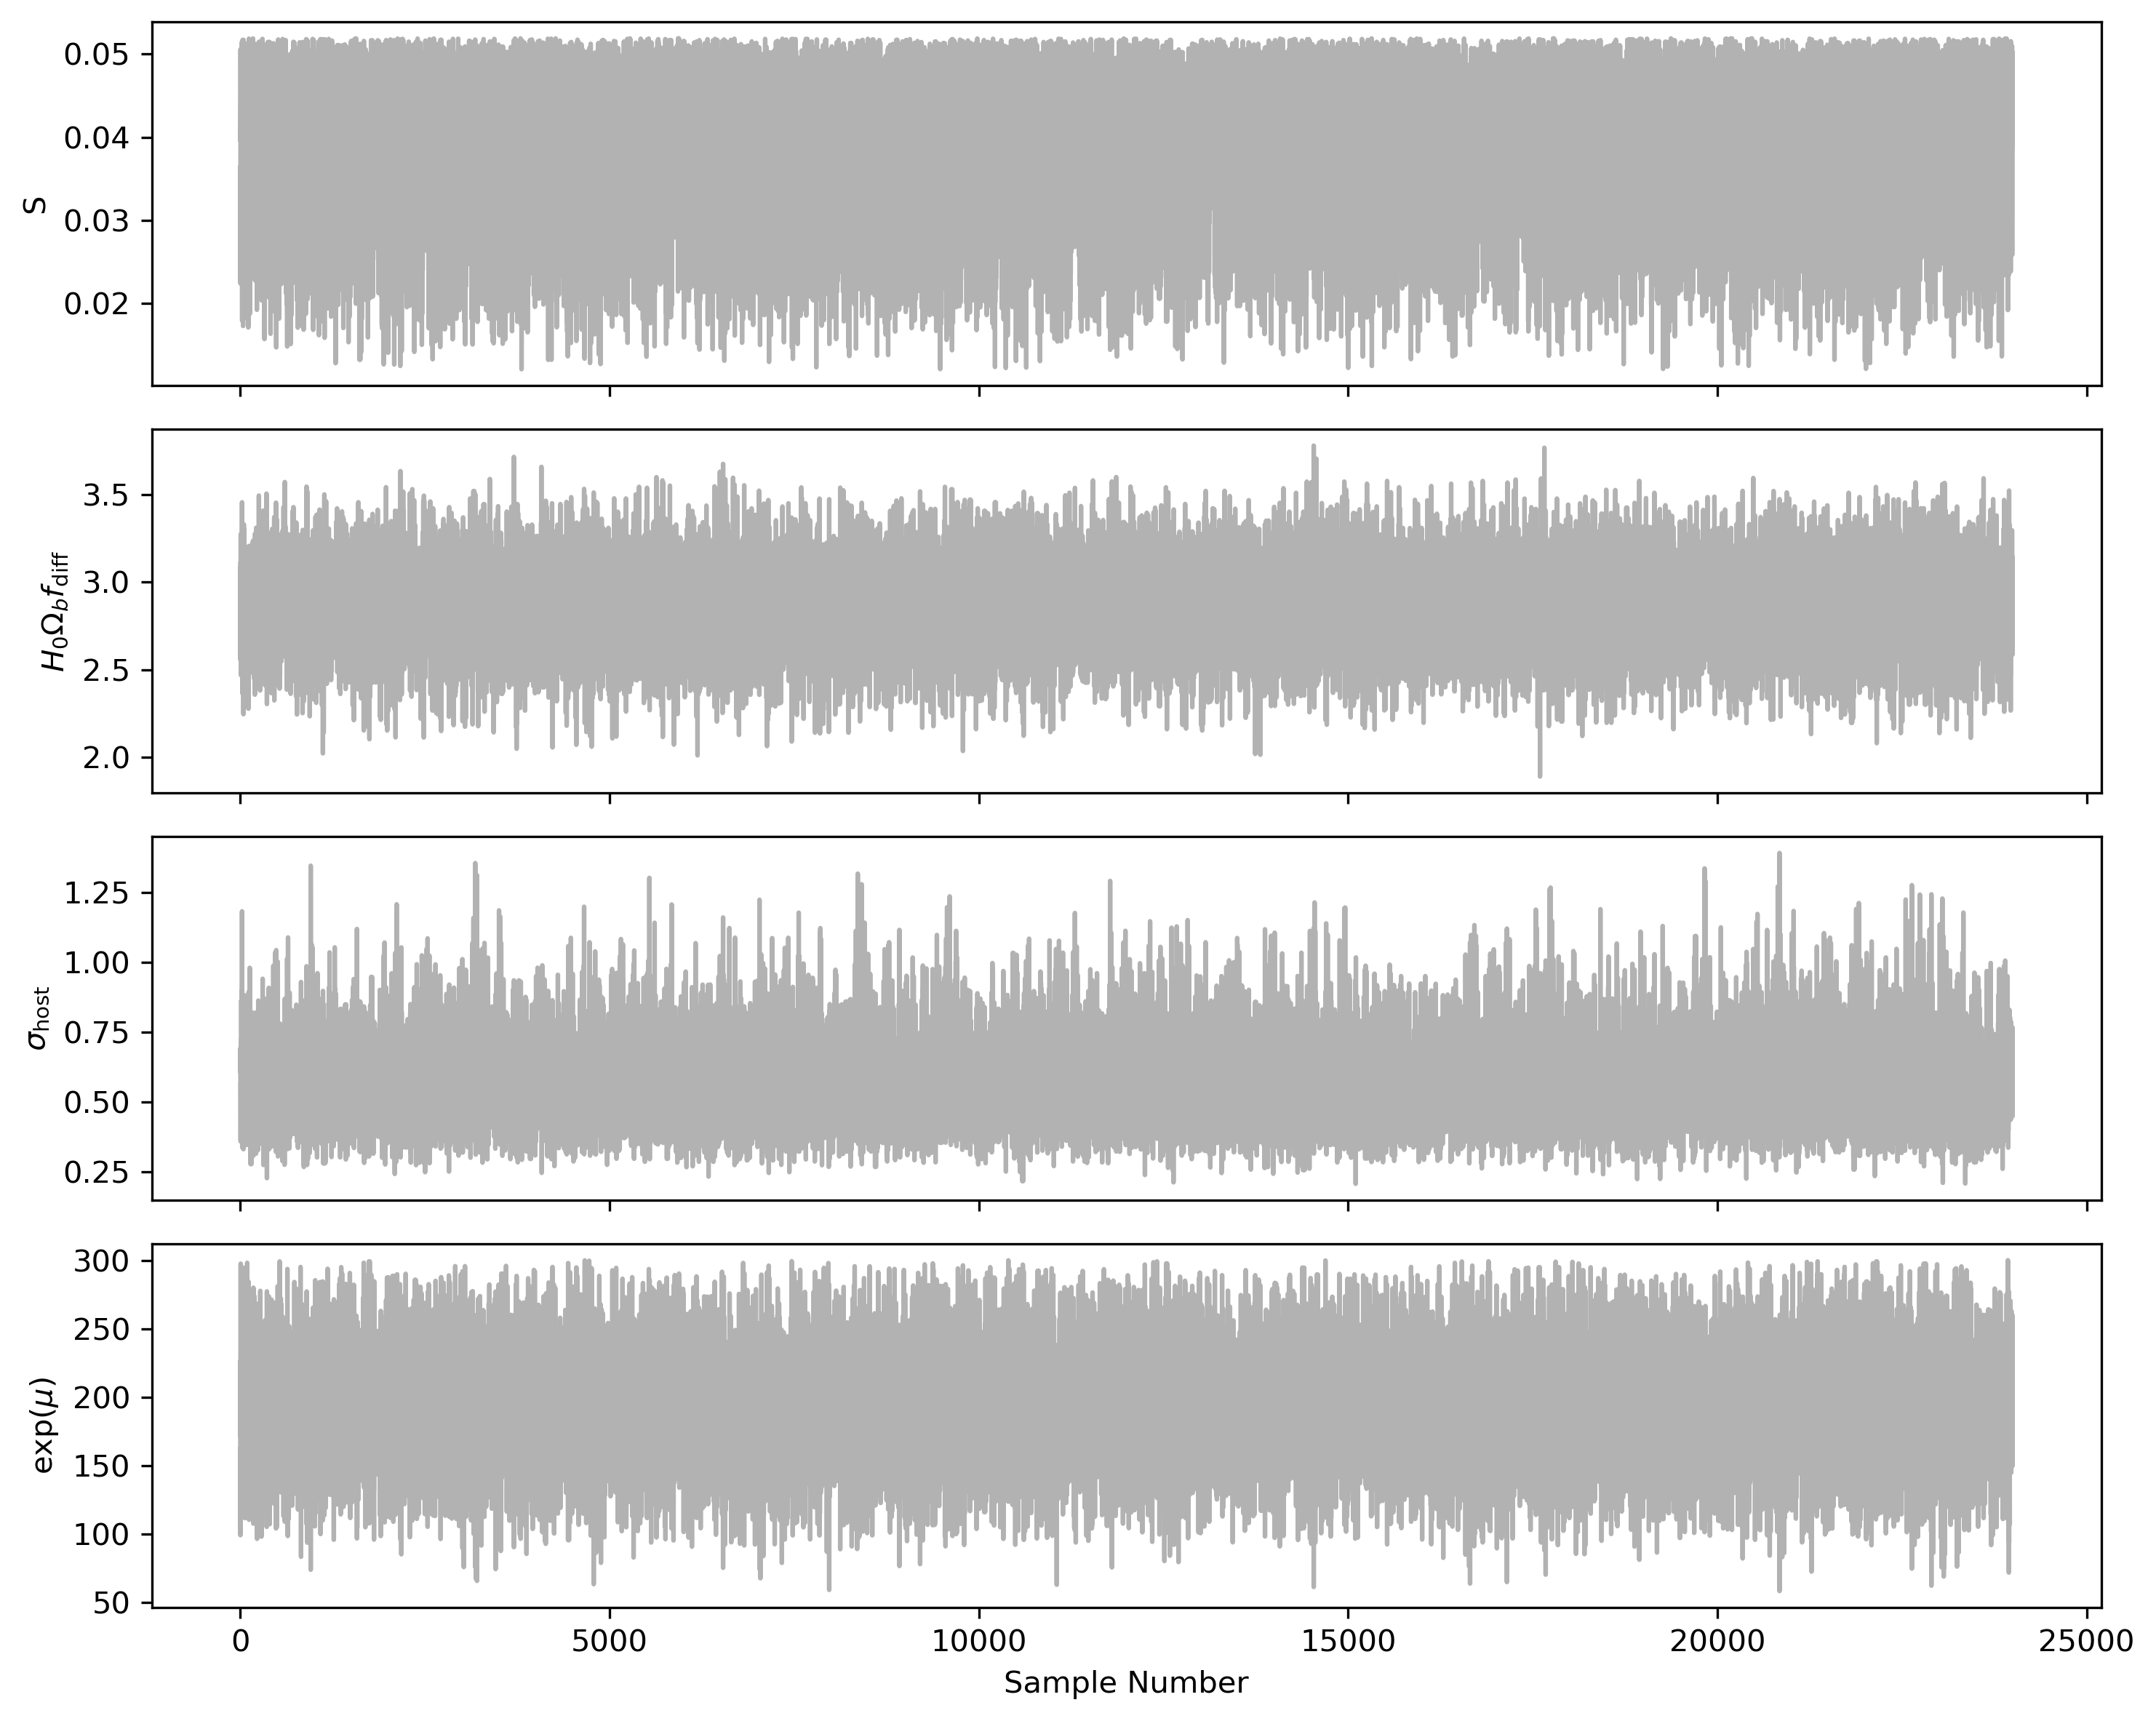
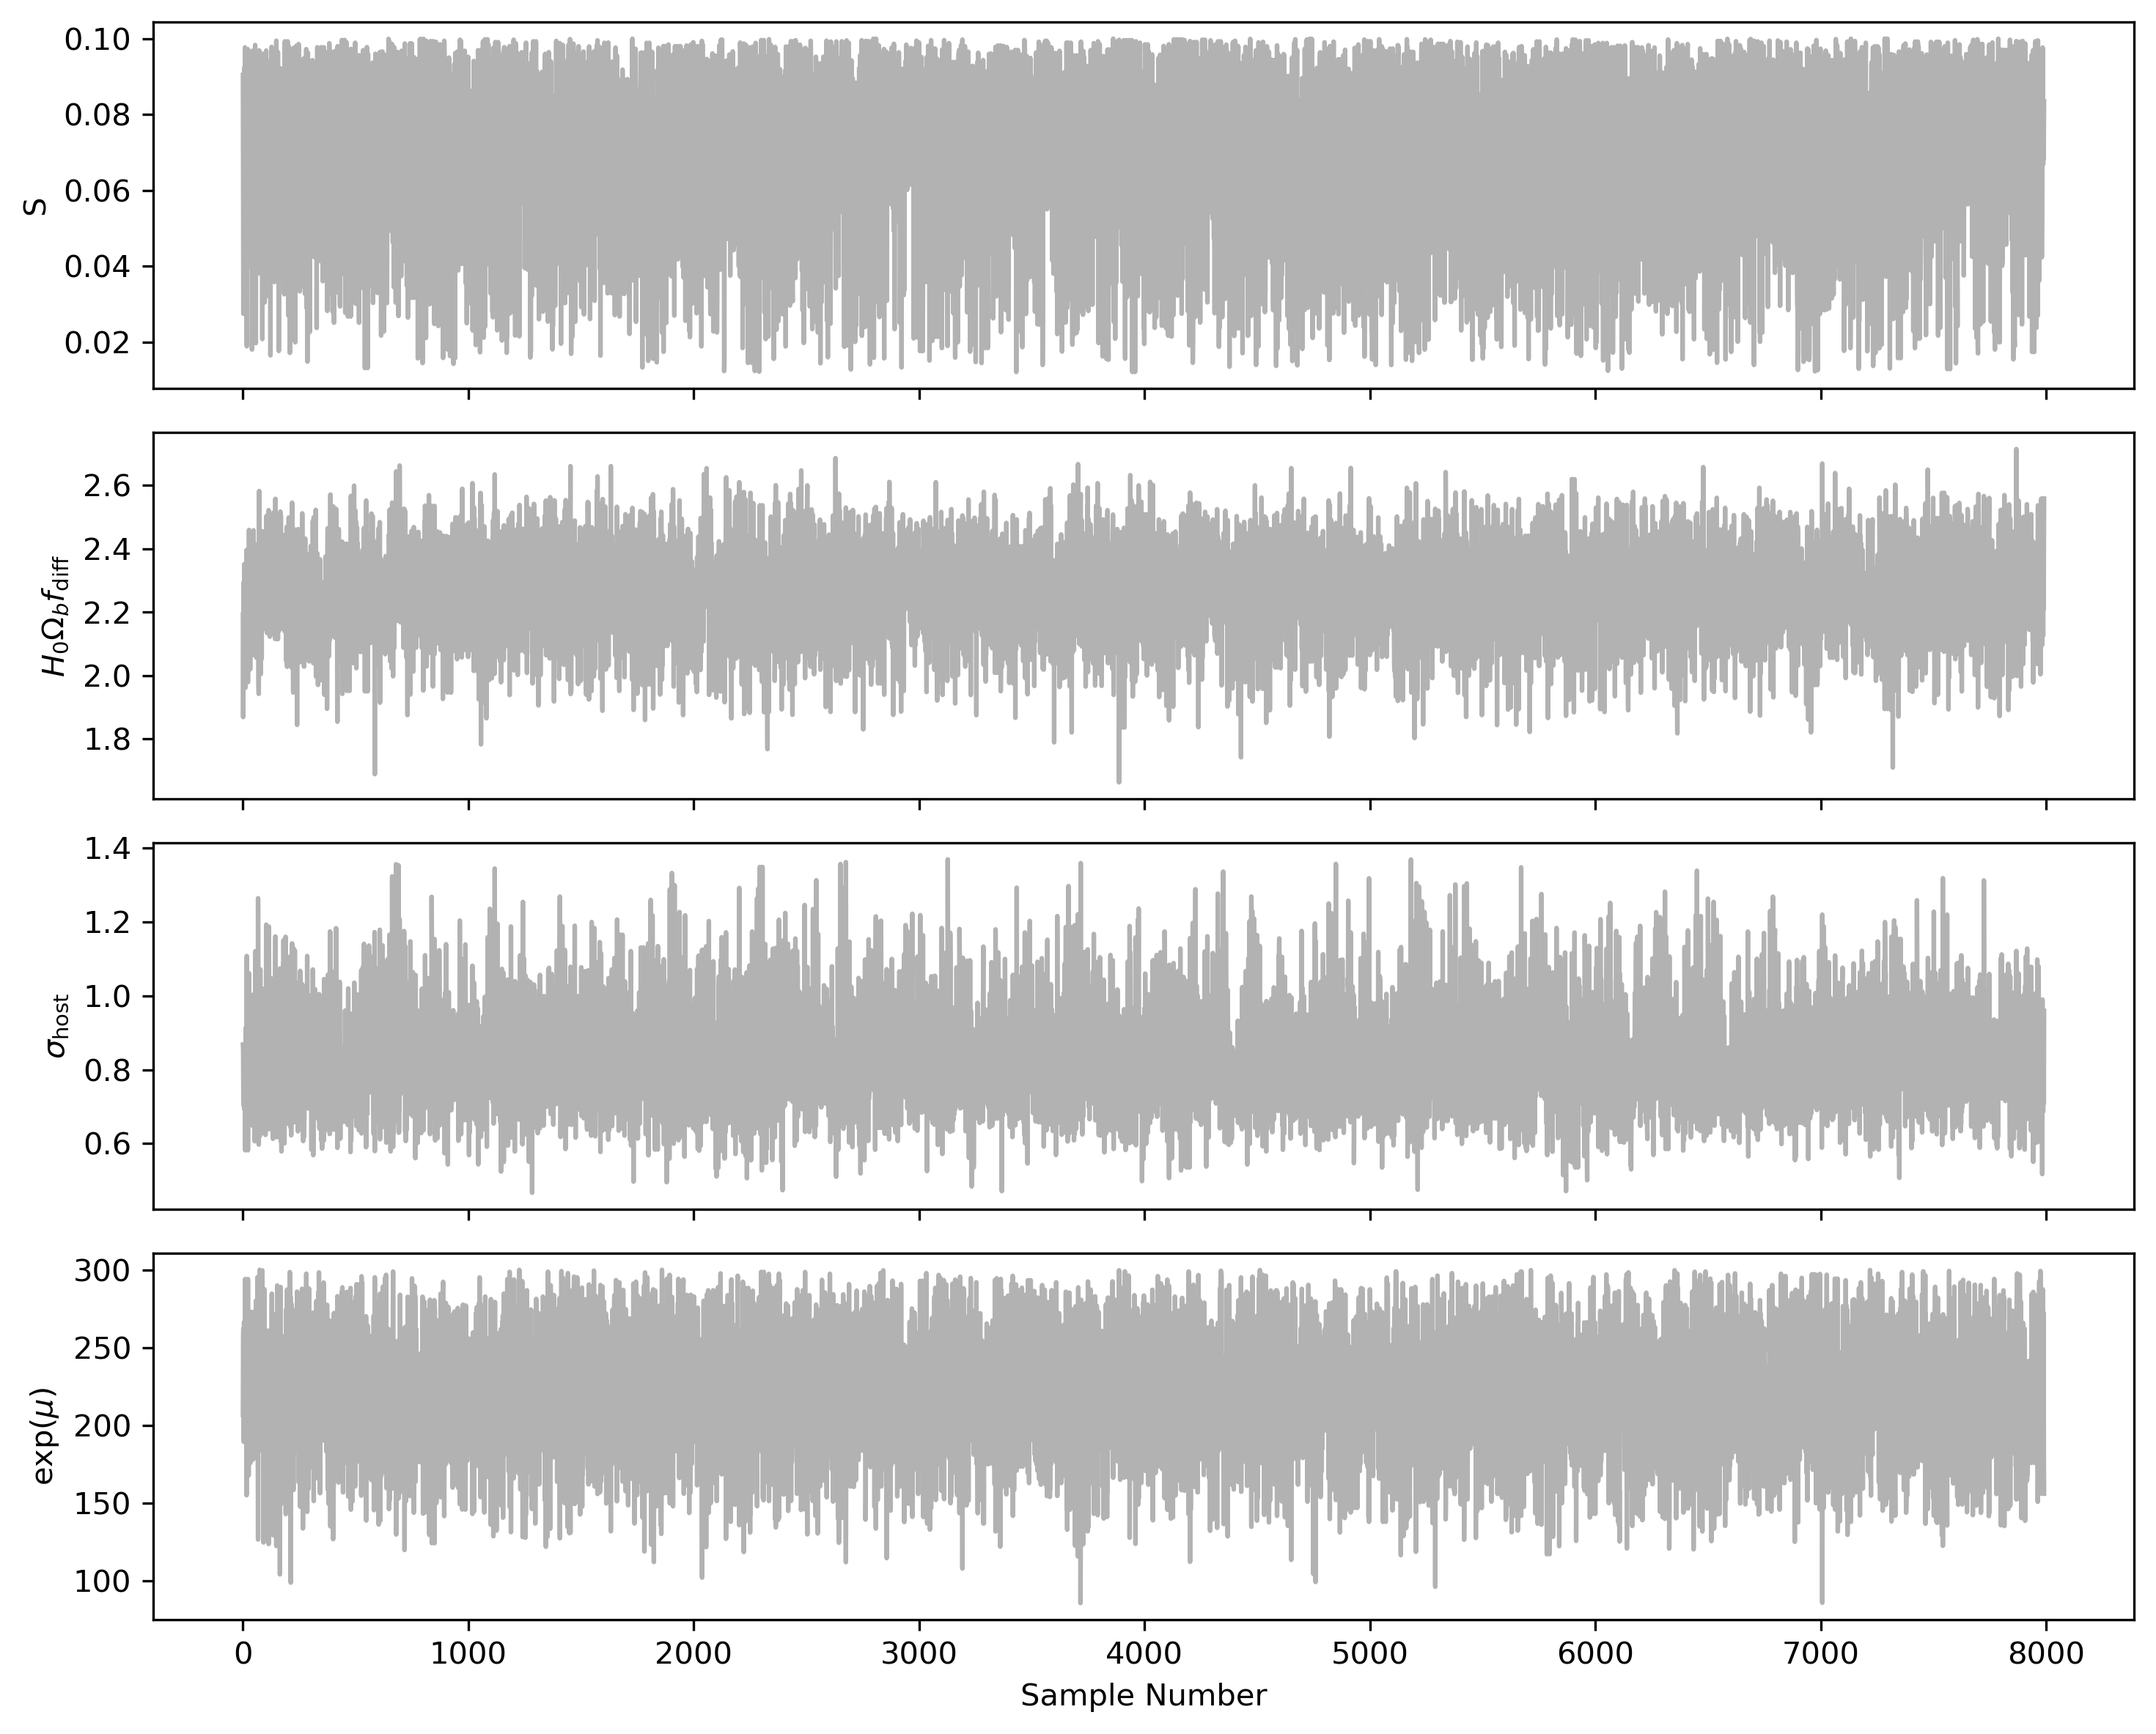
fix bugs

diff --git a/Python_scripts/mcmc_support_Macq.py b/Python_scripts/mcmc_support_Macq.py
@@ -24,20 +24,32 @@ from multiprocessing import Pool, cpu_count
 ### Load interpolations for pdf ###
 ###################################
 
-load_arrays=np.load('interpolation/A_C0_Macquart_mean.npz')
-Sigmas=load_arrays['a']
-C0s=load_arrays['c']
-As=load_arrays['b']
+DATA_PATH = 'interpolation/A_C0_Macquart_mean.npz'
 
-
-C0_sigma_inter = interpolate.interp1d(Sigmas, C0s, kind=1,bounds_error=False, 
+def _load_and_create_interpolators():
+    load_arrays = np.load(DATA_PATH)
+    Sigmas=load_arrays['a']
+    C0s=load_arrays['c']
+    As=load_arrays['b']
+    
+    C0_sigma_inter = interpolate.interp1d(Sigmas, C0s, kind=1,bounds_error=False, 
     # fill_value='extrapolate'
     )
 
 
-A_sigma_inter = interpolate.interp1d(Sigmas, As, kind=1,bounds_error=False, 
+    A_sigma_inter = interpolate.interp1d(Sigmas, As, kind=1,bounds_error=False, 
     # fill_value='extrapolate'
     )
+    
+    return Sigmas, C0s, As, C0_sigma_inter, A_sigma_inter
+
+Sigmas, C0s, As, C0_sigma_inter, A_sigma_inter = _load_and_create_interpolators()
+
+def reload_with_path(path):
+    """reload"""
+    global DATA_PATH, Sigmas, C0s, As, C0_sigma_inter, A_sigma_inter
+    DATA_PATH = path
+    Sigmas, C0s, As, C0_sigma_inter, A_sigma_inter = _load_and_create_interpolators()
 
 
 ###############################

diff --git a/Python_scripts/cosmo_support.py b/Python_scripts/cosmo_support.py
@@ -652,7 +652,7 @@ def calculate_var(C0, A, sigma_DM, alpha=3, beta=3, x_min=0, x_max=np.inf, error
 def calc_confidence_interval_width(cdf, target_prob=0.6827):
     
     # For 2σ confidence interval, we need 0.9545 mass (95.45%)
-    # target_prob = 0.6827 # 0.9545
+    # target_prob = 0.6827 # 0.9545 #0.9973
     # Find the central interval
     lower_target = (1 - target_prob) / 2
     upper_target = 1 - lower_target

diff --git a/Python_scripts/mcmc_support_Svar.py b/Python_scripts/mcmc_support_Svar.py
@@ -107,7 +107,7 @@ def log_prior(theta):
     S, HOf, sigma_host, e_mu = theta
 
     # Define your prior ranges here
-    S_min, S_max = 10, 50 # 0.012, 0.10 #0.2 # Example range, adjust based on your model
+    S_min, S_max = 0.008, 0.30 #0.016 # 0.2 # 2.0 #0.2 # Example range, adjust based on your model
     HOf_min, HOf_max = 1.0, 5.0  # Example range, adjust based on your model
     sigma_host_min, sigma_host_max = 0.2,1.4  # Example range
     e_mu_min, e_mu_max = 50, 300  # Example range # e_mu_min, e_mu_max = 50, 300  # Example range